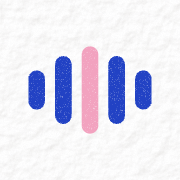
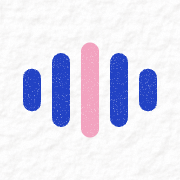
Pink app: review fixes (light-mode pinks clear 3:1, cobalt button fill, mark crops plate margin, no tile behind the mark, docs)

diff --git a/platform-macos/App/Sources/cadence/BrandColor.swift b/platform-macos/App/Sources/cadence/BrandColor.swift
@@ -12,9 +12,10 @@ enum BrandColor {
         }
     }
 
-    /// Primary accent — bars, fills, the hero number's mark, active states. The icon's pink peak.
+    /// Primary accent — bars, fills, the hero number's mark, active states. The icon's pink peak,
+    /// deepened in light mode so marks clear 3:1 on white (the brand pink alone is about 2:1).
     static let accent = dynamic(
-        light: NSColor(srgbRed: 0.933, green: 0.561, blue: 0.698, alpha: 1),  // #EE8FB2
+        light: NSColor(srgbRed: 0.851, green: 0.341, blue: 0.545, alpha: 1),  // #D9578B
         dark: NSColor(srgbRed: 0.949, green: 0.635, blue: 0.749, alpha: 1))   // #F2A2BF
 
     /// Cobalt — emphasis text and secondary accents (readable where pink is too light for text).
@@ -22,10 +23,15 @@ enum BrandColor {
         light: NSColor(srgbRed: 0.141, green: 0.263, blue: 0.769, alpha: 1),  // #2443C4
         dark: NSColor(srgbRed: 0.561, green: 0.635, blue: 1.000, alpha: 1))   // #8FA2FF
 
-    /// Softer pink — past-day bars, the calmer half of any two-tone.
+    /// Softer pink — past-day bars, the calmer half of any two-tone (still visible on white).
     static let accentSoft = dynamic(
-        light: NSColor(srgbRed: 0.973, green: 0.835, blue: 0.882, alpha: 1),  // #F8D5E1
+        light: NSColor(srgbRed: 0.933, green: 0.561, blue: 0.698, alpha: 1),  // #EE8FB2
         dark: NSColor(srgbRed: 0.431, green: 0.290, blue: 0.400, alpha: 1))   // #6E4A66
+
+    /// Filled buttons: white labels stay readable in both modes (7.9:1 light, 5.6:1 dark).
+    static let button = dynamic(
+        light: NSColor(srgbRed: 0.141, green: 0.263, blue: 0.769, alpha: 1),  // #2443C4
+        dark: NSColor(srgbRed: 0.227, green: 0.357, blue: 0.878, alpha: 1))   // #3A5BE0
 
     /// Wash — the hero card's tinted background.
     static let accentWash = dynamic(

diff --git a/site/style.css b/site/style.css
@@ -44,7 +44,6 @@ code { font-size:.88em; }
 
 .site-header { position:sticky; top:0; z-index:5; display:flex; justify-content:space-between; align-items:center; gap:16px; flex-wrap:wrap;
   padding:10px var(--gutter); background:color-mix(in srgb,var(--paper) 88%,transparent); backdrop-filter:saturate(1.4) blur(12px); -webkit-backdrop-filter:saturate(1.4) blur(12px); border-bottom:2px solid var(--blue); }
-.brand img,.footer-brand img { background:var(--paper); border-radius:10px; }
 .brand { display:flex; align-items:center; gap:10px; text-decoration:none; font:700 23px/1 var(--serif); letter-spacing:-.01em; color:var(--blue); }
 .site-header nav { display:flex; gap:clamp(12px,3vw,28px); align-items:center; flex-wrap:wrap; font:600 13px/1 var(--sans); letter-spacing:.12em; text-transform:uppercase; }
 .site-header nav a { text-decoration:none; color:var(--muted); min-height:44px; display:inline-flex; align-items:center; }
@@ -222,7 +221,7 @@ pre { background:var(--paper); border:2px dashed var(--line); border-radius:12px
 
 /* Paper: one list of every surface that carries the texture. Prints keep theirs in night mode. */
 body,.site-header,pre,.window,.steps-band,.steps li,kbd,.feature-grid li,.compare,.table-wrap,.download-card,.copy,.creator,.creator-card,.site-footer { background-image:var(--texture); background-size:400px; }
-.print,.spot,.lead-art,.brand img,.footer-brand img { background-image:var(--print-texture); background-size:400px; }
+.print,.spot,.lead-art { background-image:var(--print-texture); background-size:400px; }
 
 @media (max-width:900px) {
   .hero-grid,.steps,.download-grid,.creator-card,.site-footer { grid-template-columns:minmax(0,1fr); }

diff --git a/platform-macos/App/Sources/cadence/DictionaryWindow.swift b/platform-macos/App/Sources/cadence/DictionaryWindow.swift
@@ -64,7 +64,7 @@ final class DictionaryWindowController: NSWindowController, NSWindowDelegate {
         let save = NSButton(title: "Save", target: self, action: #selector(save))
         save.bezelStyle = .rounded
         save.keyEquivalent = "\r"  // Return
-        save.bezelColor = BrandColor.accentStrong
+        save.bezelColor = BrandColor.button
         save.contentTintColor = .white
 
         let buttons = NSStackView(views: [NSView(), cancel, save])

diff --git a/platform-macos/App/Sources/cadence/DashboardWindow.swift b/platform-macos/App/Sources/cadence/DashboardWindow.swift
@@ -418,7 +418,7 @@ final class DashboardWindowController: NSWindowController {
         b.target = self
         b.action = action
         if primary {
-            b.bezelColor = BrandColor.accentStrong
+            b.bezelColor = BrandColor.button
             b.contentTintColor = .white
         }
     }

diff --git a/docs/brand/README.md b/docs/brand/README.md
@@ -19,7 +19,7 @@ One paper and three inks. The art is printed only in the three inks, and the pap
 | Paper | `#FFFFFF` | Background, and the card behind every illustration. White, never cream (Daniel, 29 Oct). Alternate bands use a faint pink wash, `#FDF3F7` |
 | Cobalt | `#2443C4` | Line work, headings, buttons. The main ink |
 | Pink | `#F2A2BF` | Fills, and the offset "plate" shadow behind cards and buttons |
-| Red | `#EC4A32` | The spot colour: one accent per view (mouth, caret, peak bar) |
+| Red | `#EC4A32` | The spot colour: one accent per view (mouth, caret, the hand-drawn loop). Not the mark: its peak bar is pink |
 
 Small red **text** (labels, kickers) uses the deeper `#B02D18`, because bright red on white
 is only 3.2:1. The deeper red passes WCAG AA (4.5:1) on every surface.
@@ -88,4 +88,5 @@ Since 29 Oct 2026 the app wears the same inks. The icon (`platform-macos/App/App
 keeps its original geometry and white plate, with cobalt bars and a pink peak, drawn in sRGB so the
 hex values land exactly. `BrandColor.swift` has `accent` (pink: bars and fills), `accentStrong`
 (cobalt: emphasis text and buttons, because pink is too light to carry text), `accentSoft` and
-`accentWash`. The HUD's live waveform is pink.
+`accentWash`, plus `button` (cobalt fills with white labels). In light mode the pinks are deepened
+(`#D9578B` marks, `#EE8FB2` past-day bars) so they stay visible on white. The HUD's live waveform is pink.

diff --git a/docs/STATUS.md b/docs/STATUS.md
@@ -262,7 +262,7 @@ never-live-tested recovery path.
 
 - **Dashboard v3, native** (`fe77e8f`): value-first layout — time-saved hero, activity chart,
   top apps, streak, wpm; engine latency demoted to a footer. Stats computed Swift-side from
-  utterance rows; no aggregation in the core. Brand moved muted-sage → richer green `#3F8A4F`
+  utterance rows; no aggregation in the core. Brand moved muted-sage → richer green `#3F8A4F` → riso pink + cobalt (29 Oct 2026, brand v1; see docs/brand/README.md)
   (`BrandColor.swift`, icon + overlay regenerated).
 - **Runtime language toggle + dashboard v2** (`5cbf29b`): bilingual auto-detect on the
   multilingual model, Language menu (Automatic/English/Spanish), per-decode — no model reload.
